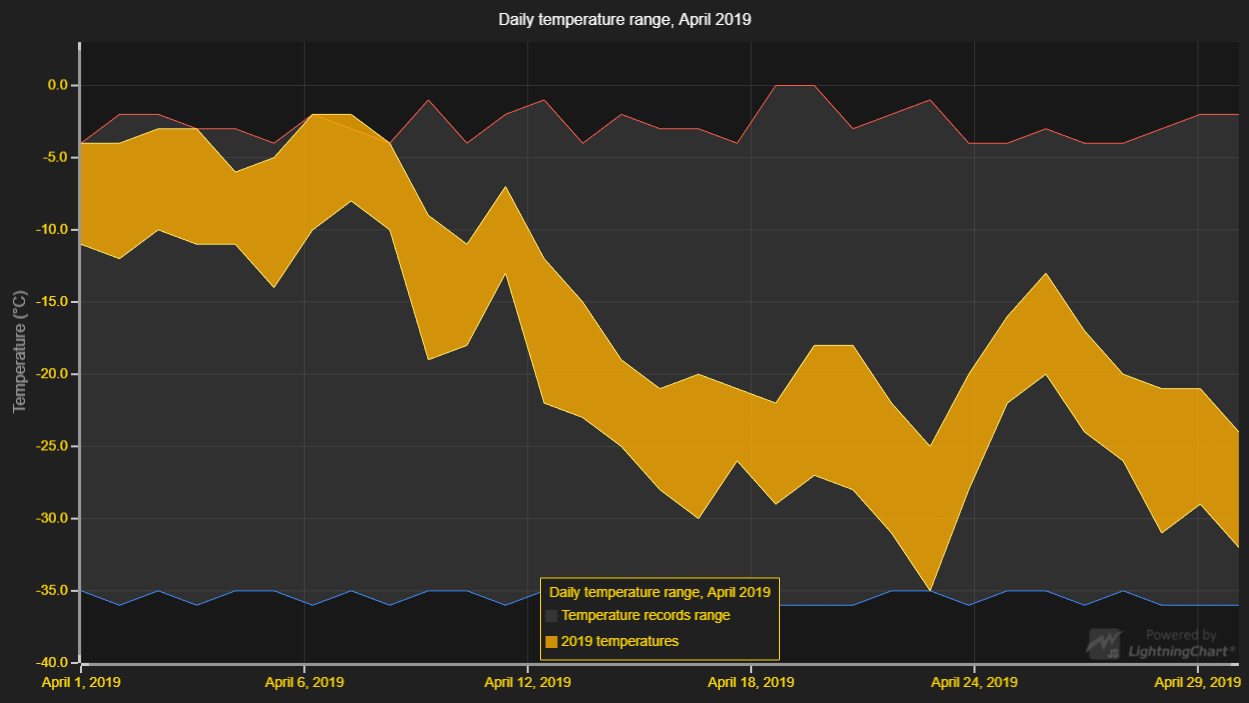
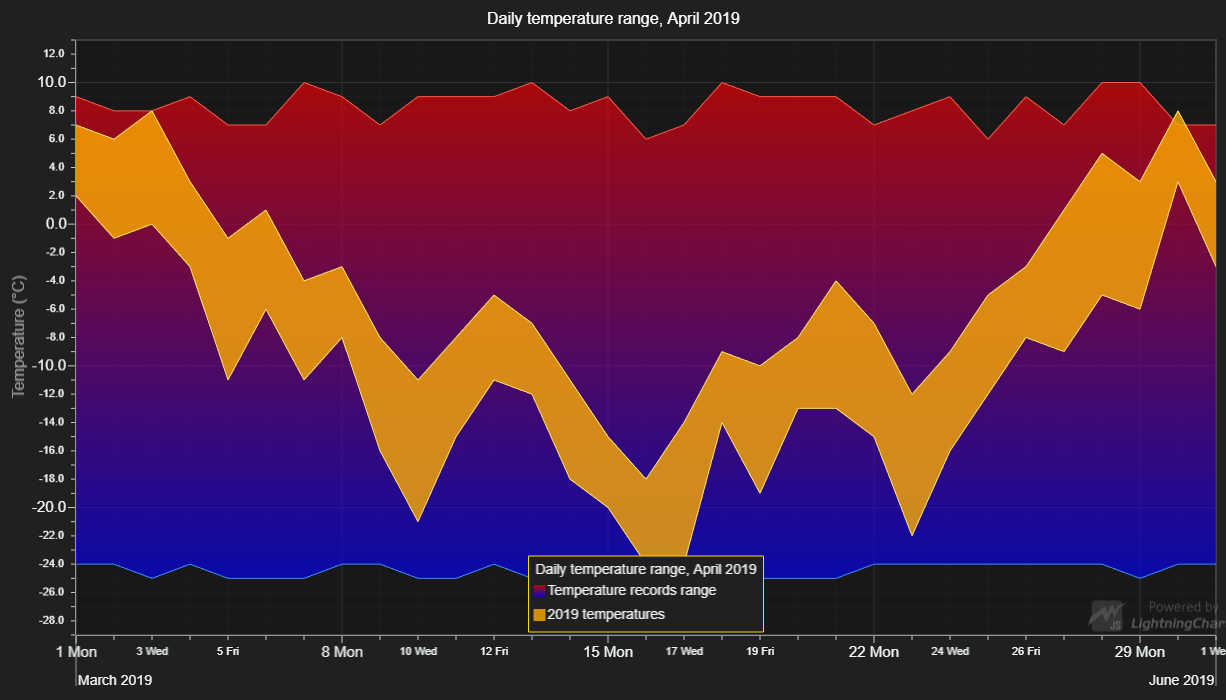
LCJS 2.0.0

diff --git a/src/index.js b/src/index.js
@@ -11,9 +11,12 @@ const {
     SolidFill,
     SolidLine,
     ColorRGBA,
+    ColorHEX,
     LegendBoxBuilders,
     UIOrigins,
-    emptyLine
+    emptyLine,
+    Themes,
+    LinearGradientFill
 } = lcjs
 
 // Decide on an origin for DateTime axis.
@@ -21,9 +24,10 @@ const dateOrigin = new Date(2019, 3, 1)
 
 // Create a XY Chart.
 const chart = lightningChart().ChartXY({
-    defaultAxisXTickStrategy: AxisTickStrategies.DateTime(dateOrigin)
+    // theme: Themes.dark
 })
-    .setTitle('Daily temperature range, April 2019')
+chart.getDefaultAxisX().setTickStrategy(AxisTickStrategies.DateTime, (tickStrategy) => tickStrategy.setDateOrigin(dateOrigin))
+chart.setTitle('Daily temperature range, April 2019')
 
 const axisX = chart.getDefaultAxisX()
 const axisY = chart.getDefaultAxisY()
@@ -35,8 +39,16 @@ const recordRange = chart.addAreaRangeSeries()
 // Current month daily temperature variations
 const currentRange = chart.addAreaRangeSeries()
 // ----- Series stylings
-// Temperature records fill style
-const recordRangeFillStyle = new SolidFill({ color: ColorRGBA(100, 100, 100, 80) })
+// Temperature records fill style, gradient Red - Blue scale. 
+const recordRangeFillStyle = new LinearGradientFill(
+    {
+        angle: 0,
+        stops:[
+             {color: ColorHEX('#0000FF9F'), offset:0},
+             {color: ColorHEX('#FF00009F'), offset:1}
+         ]
+    }
+)
 // Record range stroke fill style, high line
 const recordRangeStrokeFillStyleHigh = new SolidLine().setFillStyle(new SolidFill({ color: ColorRGBA(250, 91, 70) }))
 // Record range stroke fill style, low line

diff --git a/README.md b/README.md
@@ -61,9 +61,9 @@ series.add([
 
 ## API Links
 
-* XY cartesian chart: [ChartXY]
-* Area point: [AreaPoint]
-* Area Range series: [AreaRangeSeries]
+* [XY cartesian chart]
+* [Area point]
+* [Area Range series]
 
 
 ## Support
@@ -87,7 +87,7 @@ Direct developer email support can be purchased through a [Support Plan][4] or b
 © Arction Ltd 2009-2020. All rights reserved.
 
 
-[ChartXY]: https://www.arction.com/lightningchart-js-api-documentation/v1.3.0/classes/chartxy.html
-[AreaPoint]: https://www.arction.com/lightningchart-js-api-documentation/v1.3.0/interfaces/areapoint.html
-[AreaRangeSeries]: https://www.arction.com/lightningchart-js-api-documentation/v1.3.0/classes/arearangeseries.html
+[XY cartesian chart]: https://www.arction.com/lightningchart-js-api-documentation/v2.0.0/classes/chartxy.html
+[Area point]: https://www.arction.com/lightningchart-js-api-documentation/v2.0.0/interfaces/areapoint.html
+[Area Range series]: https://www.arction.com/lightningchart-js-api-documentation/v2.0.0/classes/arearangeseries.html
 
